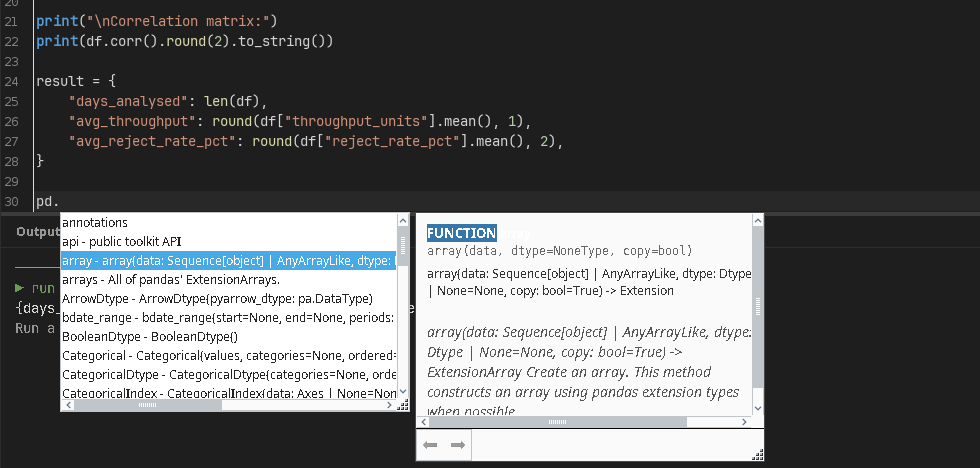
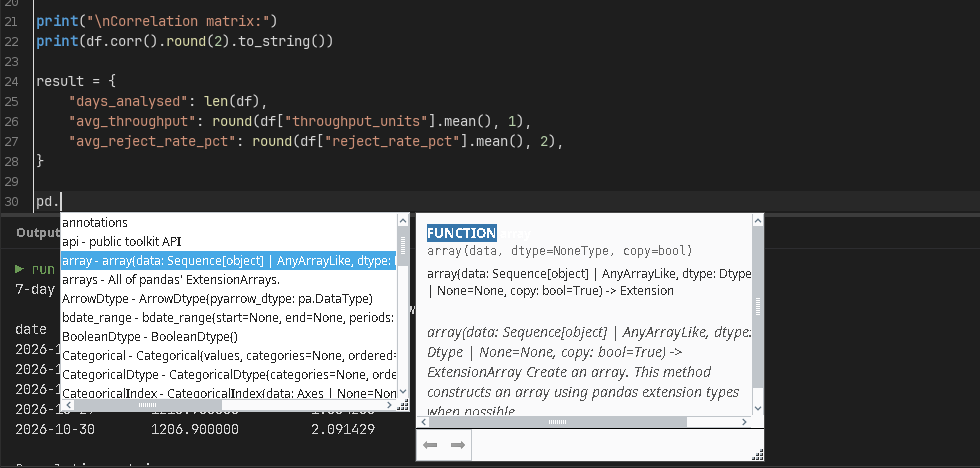
docs(readme): recapture screenshots for 4.6.6 metrics fixes

diff --git a/README.md b/README.md
@@ -36,13 +36,13 @@ release decision.
 ![Script library tree with a Demos folder of five scripts and a Reports folder of two, ProductionStats selected and its full source and description visible](docs/images/script-library.png)
 *Scripts are organised into folders and are real files on disk — select one to see its source, description and last-modified time.*
 
-![Diagnostics view showing process pool utilisation, execution metrics for 57 real runs at a 23 ms average with a 0% error rate, and a live module log of recent calls](docs/images/diagnostics-view.png)
+![Diagnostics view showing process pool utilisation, execution metrics for 49 real runs (47 successful, 2 failed from scripts that raised, a 4.08% error rate) at a 36 ms average with a 380 ms max latency, and a live module log of recent calls](docs/images/diagnostics-view.png)
 *Diagnostics: pool utilisation, execution counts and latency, and the module's own log stream — including the per-call audit trail (mode, code hash, duration) — filterable by level.*
 
 ![Python Versions view listing Python 3.9 through 3.13, with 3.11 (the default, showing its install path), 3.12 and 3.13 installed and the rest available to install](docs/images/python-versions-view.png)
 *Multiple Python versions can be installed side by side; scripts pick which one they run against.*
 
-![Gateway dashboard showing module health as Healthy, a pool of three processes, the running Python version and real execution counts — 55 runs at a 23 ms average with no errors](docs/images/gateway-dashboard.png)
+![Gateway dashboard showing module health as Healthy, a pool of three processes, the running Python version and real execution counts — 48 runs at a 36 ms average and a 4.2% error rate from two scripts that raised](docs/images/gateway-dashboard.png)
 *The landing dashboard: module health, process pool, the running Python version and execution counts at a glance.*
 
 ![Designer Script Console with the editor and Output side by side: the ProductionStats demo script on the left, and on the right run #1 with its printed tables followed by the returned result dict](docs/images/designer-script-editor.png)
@@ -64,7 +64,7 @@ alongside the rest of the built-in tools.*
 keyword list — it resolves real members of whatever's actually imported,
 with descriptions, in a proper editor popup (Ctrl+Space).*
 
-![The Designer's Diagnostics dialog showing Performance Diagnostics (64 executions, 100% success rate, RAM/CPU, health score 100) and a live, filterable Gateway Logs stream](docs/images/designer-diagnostics.png)
+![The Designer's Diagnostics dialog showing Performance Diagnostics (61 executions, a 96.7% success rate after two scripts that raised, RAM/CPU, health score 100) and a live, filterable Gateway Logs stream](docs/images/designer-diagnostics.png)
 *A read-only Diagnostics view reachable from the Designer: pool health and
 performance stats plus a live tail of the Gateway's own log, filterable by
 level — no need to leave the Designer to see what the module is doing.*
